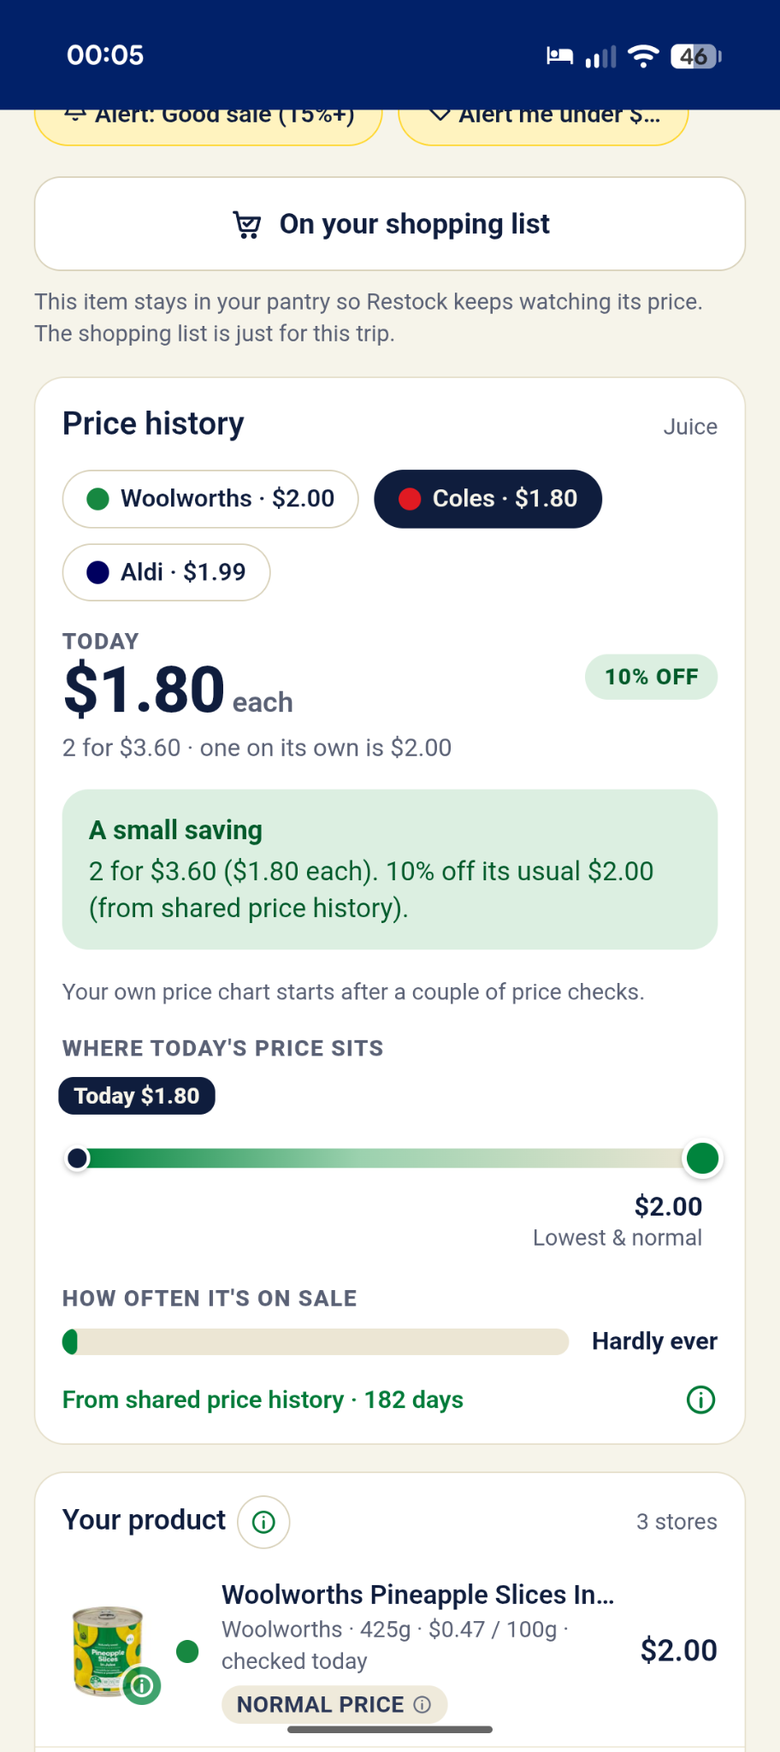
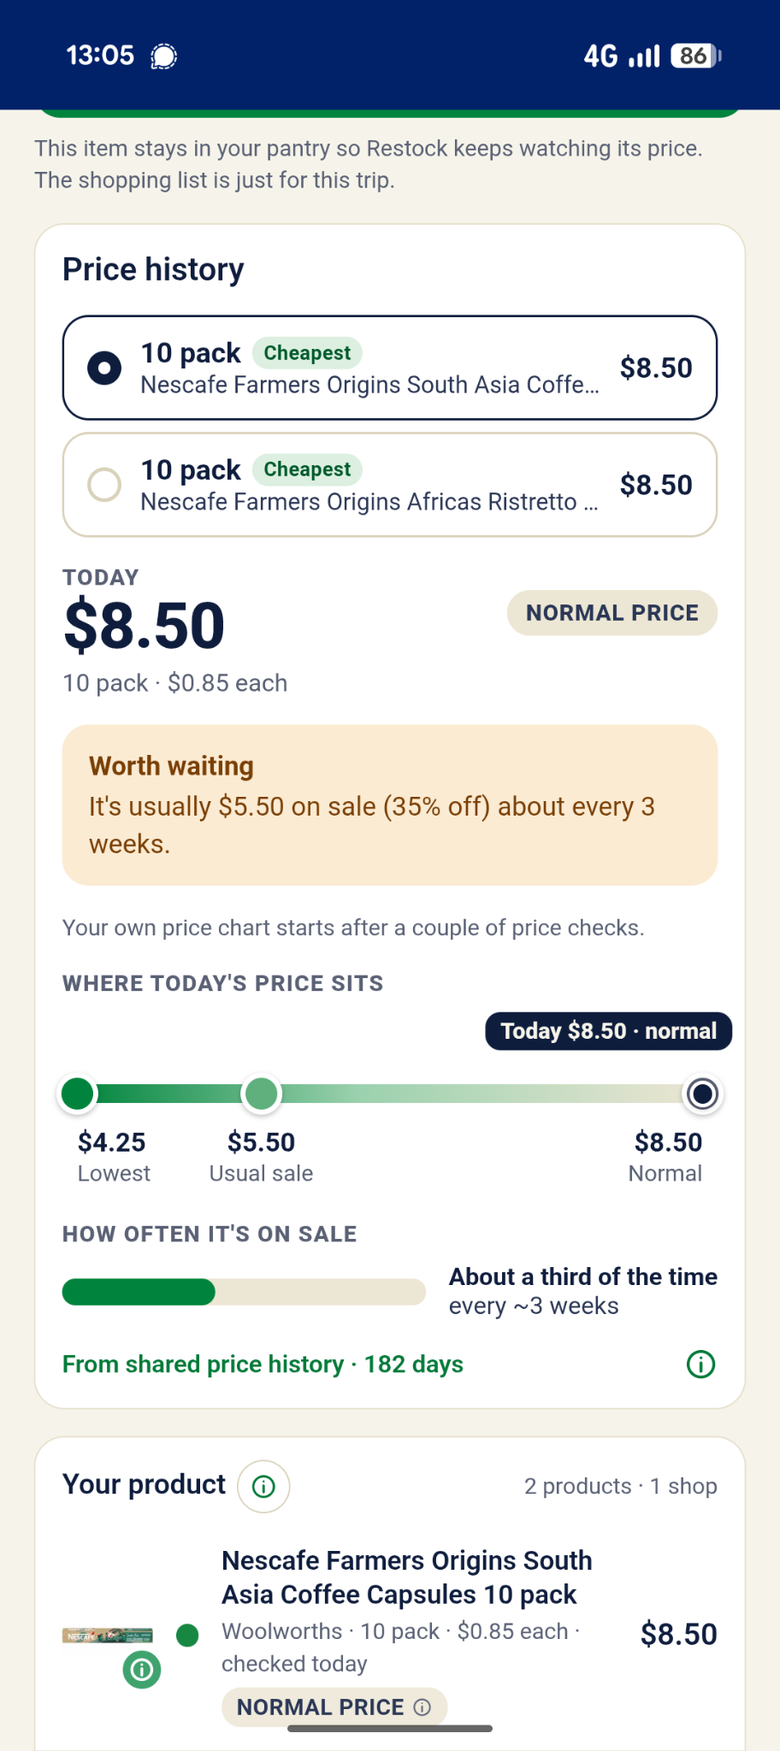
Restock 0.7.5

Changed region(s): [[0.0308, 0.0, 0.9538, 1.0], [0.8, 0.9252, 0.9231, 0.956], [0.9231, 0.1234, 0.9538, 0.1542]]

diff --git a/src/stores/rank.ts b/src/stores/rank.ts
@@ -1,3 +1,4 @@
+import { kindOf, PRODUCT_NOUNS } from '../lib/naming';
 import { packSize, parseSize } from '../lib/units';
 import type { StoreProduct } from './types';
 
@@ -60,8 +61,19 @@ export function tokens(s: string | undefined): string[] {
     .replace(/&/g, ' ')
     .split(/[^a-z0-9]+/)
     .filter((w) => w && !STOP.has(w) && !/^\d+(\.\d+)?(g|kg|ml|l|pk|pack|x)?$/.test(w))
+    .map((w) => SAME[w] ?? w)
     .map(stem);
 }
+
+/** Spellings that mean the same thing (0.7.5). */
+const SAME: Record<string, string> = {
+  yogurt: 'yoghurt',
+  yogurts: 'yoghurt',
+  flavor: 'flavour',
+  flavored: 'flavoured',
+  color: 'colour',
+  colors: 'colour',
+};
 
 function typesIn(text: string): Set<string> {
   const t = ` ${tokens(text).join(' ')} `;
@@ -82,7 +94,90 @@ export interface RankQuery {
   barcode?: string;
 }
 
-const close = (a: string, b: string) => a === b || (a.length >= 4 && b.length >= 4 && (a.startsWith(b) || b.startsWith(a)));
+/**
+ * Same word, or one shortened: "choc" and "chocolate", "tomato" and "tomatoes". Not a word made
+ * from it: "buttery", "buttered" and "butterscotch" aren't butter (0.7.5).
+ */
+const close = (a: string, b: string) => {
+  if (a === b) return true;
+  const [short, long] = a.length <= b.length ? [a, b] : [b, a];
+  if (short.length < 4 || !long.startsWith(short)) return false;
+  const tail = long.slice(short.length);
+  if (/^(y|ed|ie|ier|iest|ing|scotch|nut|milk|fly|cup)$/.test(tail)) return false;
+  return short.length <= 4 || tail.length <= 2;
+};
+
+/**
+ * The word describes another product right after it: "Bread Crumbs", "Cheese Twisties", "Apple Pie",
+ * "Rice Crackers", "Butter Chicken". Unless you typed that too ("rice crackers").
+ */
+const NOUNS = new Set([...PRODUCT_NOUNS].map((w) => stem(w)));
+/** How it's packed is never another product: "Apples 1kg Bag", "Milk Bottle". */
+const PACKAGING = new Set([
+  // The shape it comes in is still the same thing: "Cheese Block", "Chicken Breast", "Butter Portions".
+  'block',
+  'slice',
+  'wedge',
+  'stick',
+  'portion',
+  'fillet',
+  'piece',
+  'strip',
+  'mince',
+  'breast',
+  'thigh',
+  'wing',
+  'drumstick',
+  'loaf',
+  'spread',
+  'bag',
+  'box',
+  'tray',
+  'punnet',
+  'bottle',
+  'can',
+  'jar',
+  'tub',
+  'tin',
+  'carton',
+  'bunch',
+  'kg',
+  'loose',
+  'prepacked',
+  'value',
+  'multipack',
+  'family',
+  'bulk',
+]);
+
+function asModifier(q: string[], name: string): boolean {
+  const words = tokens(name);
+  const last = q[q.length - 1];
+  return words.some((w, i) => {
+    if (!close(w, last)) return false;
+    // The next word or the one after ("Chicken Crimpy Shapes"), but not how it's packed.
+    return [words[i + 1], words[i + 2]].some((next) => !!next && !PACKAGING.has(next) && !q.some((t) => close(t, next)) && NOUNS.has(next));
+  });
+}
+
+/** "… Butter Flavour", "… with Butter": the word is a flavour or an ingredient, not the thing. */
+function asFlavour(q: string[], name: string): boolean {
+  const words = name
+    .toLowerCase()
+    .replace(/['’]/g, '')
+    .split(/[^a-z0-9]+/)
+    .filter(Boolean)
+    .map(stem);
+  return q.some((t) =>
+    words.some(
+      (w, i) =>
+        w === t &&
+        (/^(flavou?r|flavou?red|scented|taste|infused|style)$/.test(words[i + 1] ?? '') ||
+          /^(with|and|in)$/.test(words[i - 1] ?? '') ||
+          (words[i - 1] === 'flavour' && words[i - 2] === 'with')),
+    ),
+  );
+}
 
 export function score(q: RankQuery, p: StoreProduct, index = 0): number {
   if (isExactBarcode(q, p)) return 10 - index * 0.001;
@@ -108,6 +203,23 @@ export function score(q: RankQuery, p: StoreProduct, index = 0): number {
       if (ratio > 0.9 && ratio < 1.1) s += 0.2;
       else if (ratio > 2 || ratio < 0.5) s -= 0.1;
     }
+  }
+
+  // What kind of thing it is (0.7.5): for "butter", butter blocks first; peanut butter, butter
+  // chicken sauce and butter-flavoured popcorn after. Only for plain typed searches.
+  if (!q.barcode && qTokens.length <= 3) {
+    // "Cheese Twisties" names cheese, but it's Twisties: then the kind found doesn't count.
+    const modifier = asModifier(qTokens, name);
+    const kind = modifier ? undefined : kindOf(p.name);
+    const kt = tokens(kind);
+    if (kt.length) {
+      const inKind = qTokens.filter((t) => kt.some((u) => close(t, u))).length;
+      if (inKind === qTokens.length && kt.length === qTokens.length) s += 0.3;
+      // "Tasty cheese" for cheese, "peanut butter" for butter: a kind of it, so neither up nor down.
+      else if (inKind === 0 && matched > 0) s -= 0.3;
+    }
+    if (asFlavour(qTokens, name)) s -= 0.3;
+    if (modifier) s -= 0.35;
   }
 
   const qt = typesIn(q.text);

diff --git a/src/lib/naming.ts b/src/lib/naming.ts
@@ -337,3 +337,116 @@ export function genericName(productName: string | undefined, brand?: string): st
   rest = rest.replace(/\s+/g, ' ').trim();
   return cap(rest || productName.trim());
 }
+
+/**
+ * What kind of thing a product is, for search (0.7.5): "Western Star Salted Butter 250g" → "butter",
+ * "Bega Peanut Butter Smooth" → "peanut butter", "Butter Chicken Simmer Sauce" → "sauce",
+ * "Popcorn Butter Flavour" → "popcorn". Flavours, scents and what it comes "with" aren't the kind.
+ * Undefined when no known kind is in the name.
+ */
+export function kindOf(productName: string | undefined): string | undefined {
+  if (!productName) return undefined;
+  let lower = ` ${productName
+    .toLowerCase()
+    .replace(/[’']/g, "'")
+    .replace(/[^a-z0-9' ]+/g, ' ')
+    .replace(/\s+/g, ' ')} `;
+  lower = lower.replace(/ [a-z]+ (?:flavou?r(?:ed)?|scented|style|taste|infused) /g, ' ');
+  const head = lower.split(/ (?:in|with) /)[0];
+  if (head !== lower) lower = `${head} `;
+  for (const b of BRAND_ITEMS) if (lower.includes(` ${b} `) || lower.includes(` ${b}'`)) return b;
+  let found: { kind: string; at: number } | undefined;
+  for (const k of KINDS) {
+    const m = new RegExp(`\\b${k.replace(/[.*+?^${}()|[\]\\]/g, '\\$&')}\\b`).exec(lower);
+    if (!m) continue;
+    const end = m.index + k.length;
+    if (!found || end > found.at + found.kind.length || (end === found.at + found.kind.length && k.length > found.kind.length))
+      found = { kind: k, at: m.index };
+  }
+  return found?.kind;
+}
+
+/** Words that name a kind of product (the last word of each kind, plus a few more), for search. */
+export const PRODUCT_NOUNS: ReadonlySet<string> = new Set([
+  ...KINDS.map((k) => k.split(' ').pop()!),
+  ...[
+    'crumbs',
+    'crumb',
+    'twisties',
+    'pie',
+    'pies',
+    'bubbles',
+    'crackers',
+    'cracker',
+    'scroll',
+    'scrolls',
+    'rolls',
+    'roll',
+    'bars',
+    'bar',
+    'cake',
+    'cakes',
+    'pickles',
+    'creamer',
+    'stock',
+    'noodles',
+    'noodle',
+    'shapes',
+    'chips',
+    'sauce',
+    'paste',
+    'powder',
+    'spread',
+    'biscuits',
+    'cookies',
+    'muffins',
+    'slice',
+    'mix',
+    'cubes',
+    'gravy',
+    'soup',
+    'dip',
+    'dressing',
+    'marinade',
+    'seasoning',
+    'drink',
+    'juice',
+    'cordial',
+    'snack',
+    'snacks',
+    'pods',
+    'capsules',
+    'tablets',
+    'wipes',
+    'spray',
+    'puffs',
+    'rings',
+    'bites',
+    'balls',
+    'nuggets',
+    'pieces',
+    'strips',
+    'kiev',
+    'schnitzel',
+    'pizza',
+    'pasta',
+    'lasagne',
+    'wraps',
+    'buns',
+    'loaf',
+    'cereal',
+    'flakes',
+    'oats',
+    'popcorn',
+    'crisps',
+    'chocolate',
+    'block',
+    'icecream',
+    'cream',
+    'custard',
+    'jelly',
+    'yoghurt',
+    'milk',
+    'cheese',
+  ],
+]);

diff --git a/src/ui/screens/Home.tsx b/src/ui/screens/Home.tsx
@@ -95,16 +95,17 @@ export function HomeScreen() {
   // Deals at one shop only, or all of them (0.7.4). The shop each deal is at: the swap's for a swap.
   const dealChain = (r: (typeof recs)[number]) => (r.action === 'alt' ? r.alt : r.best)?.product.chain;
   const dealRecs = recs.filter((r) => r.action === 'buy' || r.action === 'alt' || r.action === 'small');
-  const dealShops = [...new Set(dealRecs.map(dealChain).filter((c): c is NonNullable<typeof c> => !!c))].sort((a, b) =>
+  // Every section follows the shop picked (0.7.5): sales, small savings, wait, fake sales, normal price.
+  const dealShops = [...new Set(recs.map(dealChain).filter((c): c is NonNullable<typeof c> => !!c))].sort((a, b) =>
     chainName(a).localeCompare(chainName(b)),
   );
   const atShop = (r: (typeof recs)[number]) => !dealShop || !dealShops.includes(dealShop as never) || dealChain(r) === dealShop;
   const buys = recs.filter((r) => r.action === 'buy' && atShop(r));
   const altDeals = recs.filter((r) => r.action === 'alt' && atShop(r));
   const smalls = recs.filter((r) => r.action === 'small' && atShop(r));
-  const waits = recs.filter((r) => r.action === 'wait');
-  const skips = recs.filter((r) => r.action === 'skip');
-  const normal = recs.filter((r) => r.action === 'none');
+  const waits = recs.filter((r) => r.action === 'wait' && atShop(r));
+  const skips = recs.filter((r) => r.action === 'skip' && atShop(r));
+  const normal = recs.filter((r) => r.action === 'none' && atShop(r));
   const worth = [...buys, ...altDeals];
   const saving = worth.reduce((sum, r) => sum + (r.saving ?? 0), 0);
 
@@ -352,7 +353,7 @@ export function HomeScreen() {
           {dealShops.map((c) => (
             <button key={c} role="tab" className="chip" aria-selected={dealShop === c} aria-pressed={dealShop === c} onClick={() => setDealShop(c)}>
               <ChainDot chain={c} /> {chainName(c)}
-              <span className="ph-count">{dealRecs.filter((r) => dealChain(r) === c).length}</span>
+              {dealRecs.some((r) => dealChain(r) === c) && <span className="ph-count">{dealRecs.filter((r) => dealChain(r) === c).length}</span>}
             </button>
           ))}
         </div>

diff --git a/src/stores/rank.test.ts b/src/stores/rank.test.ts
@@ -62,3 +62,43 @@ describe('search ranking', () => {
     expect(rankResults({ text: 'vegemite' }, items).top).toHaveLength(3);
   });
 });
+
+describe('what you most likely mean (0.7.5)', () => {
+  const sp = (name: string, brand?: string): StoreProduct => ({
+    chain: 'coles',
+    storeProductId: name,
+    name,
+    brand,
+    price: 5,
+    isSpecial: false,
+    memberOnly: false,
+  });
+  const order = (q: string, names: string[]) =>
+    rankAll(
+      { text: q },
+      names.map((n) => sp(n)),
+    ).map((p) => p.name);
+  it('puts butter first for "butter"', () => {
+    const r = order('butter', [
+      'Bega Peanut Butter Smooth 470g',
+      'Butter Chicken Simmer Sauce 485g',
+      'Cobs Popcorn Butter Flavour 100g',
+      'Buttery Shortbread Biscuits 250g',
+      'Western Star Original Butter 500g',
+      'Coles Salted Butter 500g',
+    ]);
+    expect(r.slice(0, 2).sort()).toEqual(['Coles Salted Butter 500g', 'Western Star Original Butter 500g']);
+    expect(r.indexOf('Cobs Popcorn Butter Flavour 100g')).toBeGreaterThan(2);
+  });
+  it('still finds peanut butter when you ask for it', () => {
+    expect(order('peanut butter', ['Western Star Original Butter 500g', 'Bega Peanut Butter Smooth 470g'])[0]).toBe('Bega Peanut Butter Smooth 470g');
+  });
+  it('puts milk before milk chocolate', () => {
+    const r = order('milk', ['Cadbury Dairy Milk Chocolate Block 180g', 'Coles Full Cream Milk 2L', 'Milk Arrowroot Biscuits 250g']);
+    expect(r[0]).toBe('Coles Full Cream Milk 2L');
+  });
+  it('puts eggs before egg noodles', () => {
+    const r = order('eggs', ['Fantastic Egg Noodles 375g', 'Coles Free Range Eggs 12 Pack 700g']);
+    expect(r[0]).toBe('Coles Free Range Eggs 12 Pack 700g');
+  });
+});

diff --git a/README.md b/README.md
@@ -11,7 +11,7 @@
 </p>
 
 <p align="center">
-  <img alt="Beta 0.7.4" src="https://img.shields.io/badge/status-beta%200.7.4-ffcd00">
+  <img alt="Beta 0.7.5" src="https://img.shields.io/badge/status-beta%200.7.5-ffcd00">
   <img alt="Android 8.0 or newer" src="https://img.shields.io/badge/Android-8.0%2B-00843d">
   <img alt="Licence: GPL-3.0" src="https://img.shields.io/badge/licence-GPL--3.0-012169">
   <img alt="No account, no ads, no tracking" src="https://img.shields.io/badge/no%20account%20·%20no%20ads%20·%20no%20tracking-grey">
@@ -27,8 +27,8 @@
 
 | | | |
 |---|---|---|
-| ![Home: this week's deals and your shopping list total](docs/screenshots/home-0.7.png) | ![Pantry: everything you buy, with today's verdict](docs/screenshots/pantry-0.7.png) | ![Scanning: the same product ticked at each shop](docs/screenshots/scan.png) |
-| ![An item's price history and verdict](docs/screenshots/item-0.7.png) | ![The same product compared across shops](docs/screenshots/compare.png) | ![Dark mode: a great deal on a multi-buy](docs/screenshots/dark.png) |
+| ![Home: this week's deals, with how much you'd save](docs/screenshots/home-0.7.5.png) | ![Pantry: everything you buy, with today's verdict](docs/screenshots/pantry-0.7.png) | ![Scanning: the same product ticked at each shop](docs/screenshots/scan.png) |
+| ![Price history: pick the exact product, see where today's price sits and how often it's on sale](docs/screenshots/item-0.7.5.png) | ![The same product compared across shops](docs/screenshots/compare.png) | ![Dark mode: a great deal on a multi-buy](docs/screenshots/dark.png) |
 
 ## Why
 
@@ -59,7 +59,7 @@ The **normal price** is the middle of the non-sale prices over the history you k
 - **Recall alerts.** Once a day Restock checks the official Australian recall lists (FSANZ, Product Safety Australia, TGA) against what you have.
 - **Receipts** (optional). Scan, straighten and read receipts on the phone, and keep them as long as you choose.
 - **Your own store's prices.** Sign in to Woolworths inside Restock (on Woolworths' own page; your password never reaches Restock), or choose your Coles store (Restock picks up its store number from Coles' store finder by itself), and prices and stock are for your local shop.
-- **Shopping mode** with big ticks, aisle groups, a running total and your loyalty card one tap away.
+- **Shopping mode** with big ticks, aisle groups, a running total, your loyalty card one tap away, and ⓘ on every item to see what it looks like on the shelf.
 - **Widgets, shortcuts, share-to-list**, automatic backups, Australian green-and-gold or plain themes, and accessibility settings.
 
 <details>
@@ -74,9 +74,10 @@ The **normal price** is the middle of the non-sale prices over the history you k
 - **Best match**: after a scan, the same product (brand, variant and size) is ticked at each shop. If the barcode only names the brand, you pick which one it is once and Restock ticks it everywhere and remembers.
 - **Your store's prices and stock**: Woolworths shows your own store's prices and stock, and Restock can fill your Woolworths trolley, once you sign in to your Woolworths account inside Restock. You sign in on Woolworths' own page in Restock's built-in browser, so your password only ever goes to Woolworths; Restock just remembers that you're signed in and which store. For Coles, tap Choose your Coles store in My shops and tap your store in Coles' own store finder; Restock picks up its store number by itself (you can add a second store for its stock, or type the number by hand). Without these, Restock shows online prices and leaves stock out, since online stock isn't reliable for your shop.
 - **Hold to preview**: press and hold any product for a bigger photo, its full name, size, price, ingredients, allergens and nutrition.
-- **Search**: all your stores at once, ranked by how well each result matches, unit prices worked out the same way everywhere, a best-value sort, "On special only", recent searches, and fixes for Aussie names (snags, loo paper).
-- **Shopping list**: quantities, by shop or all together, Best value / Lowest price, one-store totals with a "why this one?", share as text, or send to the Coles or Woolworths app.
-- **Price history**: a chart over 1 month to 6 months, where today's price sits against the lowest, usual sale and normal price, how often it's on special, sale-cycle detection, and multi-buys counted at their price each.
+- **Search**: all your stores at once, ranked by what you most likely mean: type "butter" and butter comes first, with peanut butter, butter chicken sauce and butter-flavoured popcorn further down. Unit prices worked out the same way everywhere, a best-value sort, "On special only", recent searches, and fixes for Aussie names (snags, loo paper).
+- **Shopping list**: quantities, by shop or all together, A to Z, Best value / Lowest price, one-store totals with a "why this one?", share as text, or send to the Coles or Woolworths app. Type in the list and your pantry items come up first; or add a plain name, or **Find cheapest** to search the shops for a one-off buy without adding it to your pantry.
+- **Price history**: a tab for each shop, then that shop's products by size, so you always know which one you're looking at. A chart over 1 month to 6 months, where today's price sits against the lowest, usual sale and normal price, how often it's on special and when the next sale is likely, and multi-buys counted at their price each.
+- **This week**: deals, small savings and "wait for a better sale" for all your shops, or one shop at a time.
 - **Alert me under $X** per item, and **stock-up tips** for things that rarely go on sale.
 - **Near me**: find every supermarket, bottle shop or pharmacy nearby from OpenStreetMap and pick your branch.
 - **Store health**: Home tells you if a store hasn't worked for a day, and Settings → Troubleshooting → Test connections shows what went wrong.
@@ -90,7 +91,8 @@ The **normal price** is the middle of the non-sale prices over the history you k
 - **Backups**: export and restore exactly the parts you pick, plus optional automatic backups into a folder you choose.
 - **Look and colours**: Light, Dark or System; Australian or Plain; 24 accent colours; 16 app icon colours.
 - **Accessibility**: bigger text, high contrast, less motion and bigger buttons, checked with an automatic accessibility audit.
-- **Shared price history (testing)**: optionally download months of Coles and Woolworths history from [hotprices.org](https://hotprices.org) ([source](https://github.com/Javex/hotprices-au), MIT) so new items get a fair verdict from day one. Off by default.
+- **Updates from GitHub**: Settings → About and updates → Check for updates, or a weekly check if you turn it on. Android shows its own Install screen.
+- **Shared price history (Beta)**: optionally download months of Coles and Woolworths history from [hotprices.org](https://hotprices.org) ([source](https://github.com/Javex/hotprices-au), MIT) so new items get a fair verdict from day one. Off by default.
 
 </details>
 
